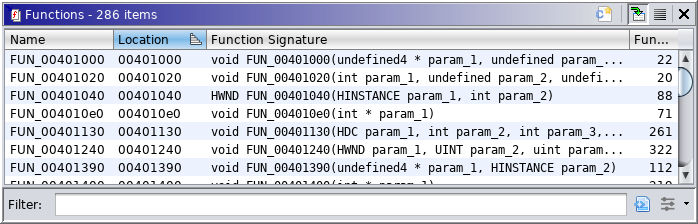
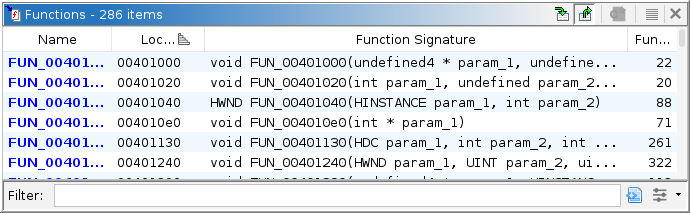
GP-6694 - Functions Window - Added an action to select the row corresponding to the current function

diff --git a/Ghidra/Features/Base/src/main/help/help/topics/FunctionWindowPlugin/function_window.htm b/Ghidra/Features/Base/src/main/help/help/topics/FunctionWindowPlugin/function_window.htm
@@ -28,17 +28,27 @@ function's signature.  Click on the top of a column to sort the list by that col
 <p>Click on a function to navigate to that function in the Code Browser.</p>
 
 
-<h3><a name="Make_Selection"></a>Make Selection</h3>
-<blockquote>
-<p>The Functions window has an icon (<img src="Icons.MAKE_SELECTION_ICON">)
-on the tool bar to make a selection in the Code Browser. To make a selection,</p>
-<ol>
-  <li>&nbsp;Select the functions in the <b>Functions</b> window.</li>
-  <li>Right mouse click and select the <img src="Icons.MAKE_SELECTION_ICON"> <b>Make
-    Selection</b> option, OR select the <img src="Icons.MAKE_SELECTION_ICON">button on
-    the tool bar.</li>
-</ol>
-</blockquote>
+
+	<H3><A name="Navigate_on_Incoming_Location_Changes"></A>
+		 Navigate on Incoming Location Changes<IMG src="Icons.NAVIGATE_ON_INCOMING_EVENT_ICON"></H3>
+	
+	<BLOCKQUOTE>
+	  <P>When selected, the Function Table will select the row in the table that corresponds to the
+		symbol selected in the <A href="help/topics/CodeBrowserPlugin/CodeBrowser.htm">Listing</A>.
+	  </P>
+	</BLOCKQUOTE>
+
+		<h3><a name="Make_Selection"></a>Make Selection</h3>
+		<blockquote>
+		<p>The Functions window has an icon (<img src="Icons.MAKE_SELECTION_ICON">)
+		on the tool bar to make a selection in the Code Browser. To make a selection,</p>
+		<ol>
+		  <li>&nbsp;Select the functions in the <b>Functions</b> window.</li>
+		  <li>Right mouse click and select the <img src="Icons.MAKE_SELECTION_ICON"> <b>Make
+		    Selection</b> option, OR select the <img src="Icons.MAKE_SELECTION_ICON">button on
+		    the tool bar.</li>
+		</ol>
+		</blockquote>
 
 <h3><a name="Function_Comparison"></a><a name="Compare_Selected_Functions"></a>Compare Selected Functions</h3>
 <blockquote>

diff --git a/Ghidra/Features/Base/src/main/java/ghidra/app/plugin/core/functionwindow/FunctionWindowProvider.java b/Ghidra/Features/Base/src/main/java/ghidra/app/plugin/core/functionwindow/FunctionWindowProvider.java
@@ -25,12 +25,13 @@ import javax.swing.table.*;
 
 import docking.ActionContext;
 import docking.DefaultActionContext;
-import docking.action.DockingAction;
+import docking.action.*;
 import docking.action.builder.ActionBuilder;
 import generic.theme.GIcon;
 import ghidra.app.context.FunctionSupplierContext;
 import ghidra.app.context.ProgramLocationSupplierContext;
 import ghidra.app.services.FunctionComparisonService;
+import ghidra.framework.options.SaveState;
 import ghidra.framework.plugintool.ComponentProviderAdapter;
 import ghidra.program.model.address.Address;
 import ghidra.program.model.listing.*;
@@ -39,6 +40,7 @@ import ghidra.program.util.ProgramLocation;
 import ghidra.util.HelpLocation;
 import ghidra.util.table.*;
 import ghidra.util.table.actions.MakeProgramSelectionAction;
+import resources.Icons;
 
 /**
  * Provider that displays all functions in the selected program
@@ -47,6 +49,9 @@ public class FunctionWindowProvider extends ComponentProviderAdapter {
 
 	public static final Icon ICON = new GIcon("icon.plugin.functionwindow.provider");
 	private static final Icon COMPARISON_ICON = new GIcon("icon.plugin.functioncompare.new");
+
+	private static final String NAVIGATE_ON_INCOMING_EVENT_KEY = "NAVIGATE_ON_INCOMING_EVENT";
+	private static final String NAVIGATE_ON_OUTGOING_EVENT_KEY = "NAVIGATE_ON_OUTGOING_EVENT";
 
 	private FunctionWindowPlugin plugin;
 	private GhidraTable functionTable;
@@ -57,6 +62,8 @@ public class FunctionWindowProvider extends ComponentProviderAdapter {
 	private GhidraThreadedTablePanel<FunctionRowObject> threadedTablePanel;
 
 	private DockingAction compareAction;
+	private ToggleDockingAction navigateIncomingAction;
+	private SelectionNavigationAction navigateOutgoingAction;
 
 	/**
 	 * Constructor
@@ -76,7 +83,22 @@ public class FunctionWindowProvider extends ComponentProviderAdapter {
 	}
 
 	private void createActions() {
-		addLocalAction(new SelectionNavigationAction(plugin.getName(), getTable()));
+		String navGroup = "A";
+
+		navigateIncomingAction =
+			new ToggleDockingAction("Navigate on Incoming Location Changes", plugin.getName(),
+				KeyBindingType.SHARED) {
+				// stub
+			};
+		navigateIncomingAction
+				.setToolBarData(new ToolBarData(Icons.NAVIGATE_ON_INCOMING_EVENT_ICON, navGroup));
+		addLocalAction(navigateIncomingAction);
+
+		navigateOutgoingAction = new SelectionNavigationAction(plugin.getName(), getTable());
+		ToolBarData tbData = navigateOutgoingAction.getToolBarData();
+		tbData.setToolBarGroup(navGroup);
+		addLocalAction(navigateOutgoingAction);
+
 		addLocalAction(new MakeProgramSelectionAction(plugin, getTable()));
 	}
 
@@ -107,6 +129,20 @@ public class FunctionWindowProvider extends ComponentProviderAdapter {
 
 		FunctionComparisonService service = getTool().getService(FunctionComparisonService.class);
 		service.createComparison(functions);
+	}
+
+	void readConfigState(SaveState saveState) {
+		boolean navigateIncoming = saveState.getBoolean(NAVIGATE_ON_INCOMING_EVENT_KEY, false);
+		boolean navigateOutgoing = saveState.getBoolean(NAVIGATE_ON_OUTGOING_EVENT_KEY, false);
+		navigateIncomingAction.setSelected(navigateIncoming);
+		navigateOutgoingAction.setSelected(navigateOutgoing);
+	}
+
+	void writeConfigState(SaveState saveState) {
+		boolean navigateIncoming = navigateIncomingAction.isSelected();
+		boolean navigateOutgoing = navigateOutgoingAction.isSelected();
+		saveState.putBoolean(NAVIGATE_ON_INCOMING_EVENT_KEY, navigateIncoming);
+		saveState.putBoolean(NAVIGATE_ON_OUTGOING_EVENT_KEY, navigateOutgoing);
 	}
 
 	@Override
@@ -217,6 +253,27 @@ public class FunctionWindowProvider extends ComponentProviderAdapter {
 		}
 	}
 
+	public void locationChanged(ProgramLocation loc) {
+		if (!navigateIncomingAction.isSelected()) {
+			return;
+		}
+
+		if (loc == null) {
+			return;
+		}
+
+		Program p = loc.getProgram();
+		FunctionManager fm = p.getFunctionManager();
+		Address address = loc.getAddress();
+		Function function = fm.getFunctionContaining(address);
+		if (function == null) {
+			return;
+		}
+
+		FunctionRowObject ro = new FunctionRowObject(function);
+		tableFilterPanel.setSelectedItem(ro);
+	}
+
 	/**
 	 * Gathers this function and any functions that thunk it
 	 * @param f the function
@@ -311,4 +368,5 @@ public class FunctionWindowProvider extends ComponentProviderAdapter {
 			return s.getProgramLocation();
 		}
 	}
+
 }

diff --git a/Ghidra/Features/Base/src/main/java/ghidra/app/plugin/core/functionwindow/FunctionWindowPlugin.java b/Ghidra/Features/Base/src/main/java/ghidra/app/plugin/core/functionwindow/FunctionWindowPlugin.java
@@ -4,9 +4,9 @@
  * Licensed under the Apache License, Version 2.0 (the "License");
  * you may not use this file except in compliance with the License.
  * You may obtain a copy of the License at
- * 
+ *
  *      http://www.apache.org/licenses/LICENSE-2.0
- * 
+ *
  * Unless required by applicable law or agreed to in writing, software
  * distributed under the License is distributed on an "AS IS" BASIS,
  * WITHOUT WARRANTIES OR CONDITIONS OF ANY KIND, either express or implied.
@@ -25,6 +25,7 @@ import ghidra.app.plugin.ProgramPlugin;
 import ghidra.app.services.FunctionComparisonService;
 import ghidra.framework.model.DomainObjectListener;
 import ghidra.framework.model.DomainObjectListenerBuilder;
+import ghidra.framework.options.SaveState;
 import ghidra.framework.plugintool.PluginInfo;
 import ghidra.framework.plugintool.PluginTool;
 import ghidra.framework.plugintool.util.PluginStatus;
@@ -33,6 +34,7 @@ import ghidra.program.model.listing.Function;
 import ghidra.program.model.listing.Program;
 import ghidra.program.model.symbol.Symbol;
 import ghidra.program.util.ProgramChangeRecord;
+import ghidra.program.util.ProgramLocation;
 import ghidra.util.task.SwingUpdateManager;
 
 //@formatter:off
@@ -98,6 +100,16 @@ public class FunctionWindowPlugin extends ProgramPlugin {
 		}
 	}
 
+	@Override
+	public void readConfigState(SaveState saveState) {
+		provider.readConfigState(saveState);
+	}
+
+	@Override
+	public void writeConfigState(SaveState saveState) {
+		provider.writeConfigState(saveState);
+	}
+
 	private DomainObjectListener createDomainObjectListener() {
 		// @formatter:off
 		return new DomainObjectListenerBuilder(this)
@@ -159,6 +171,11 @@ public class FunctionWindowPlugin extends ProgramPlugin {
 	protected void programDeactivated(Program program) {
 		program.removeListener(domainObjectListener);
 		provider.programClosed();
+	}
+
+	@Override
+	protected void locationChanged(ProgramLocation loc) {
+		provider.locationChanged(loc);
 	}
 
 	Program getProgram() {
